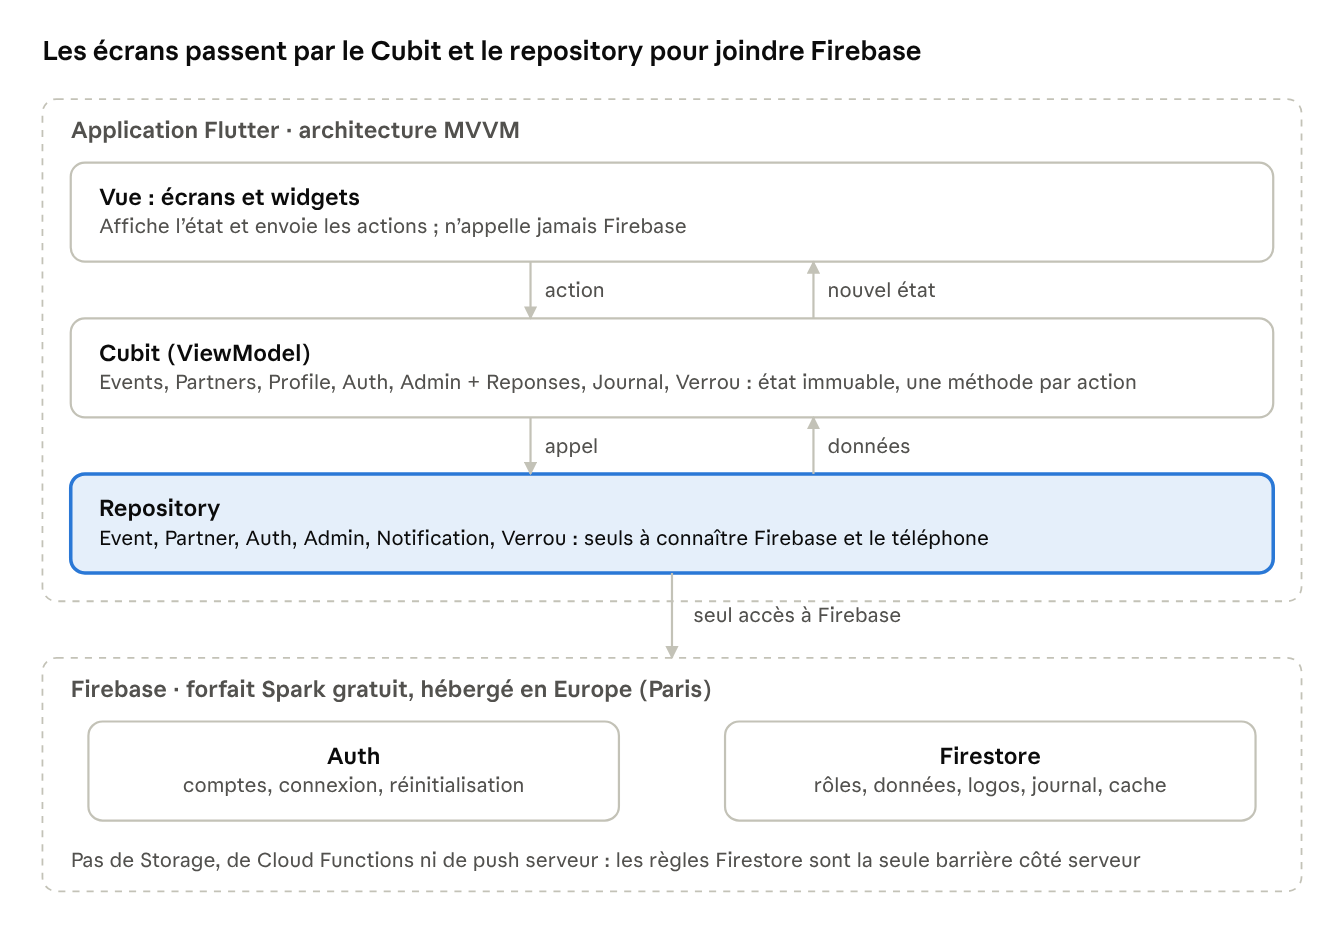
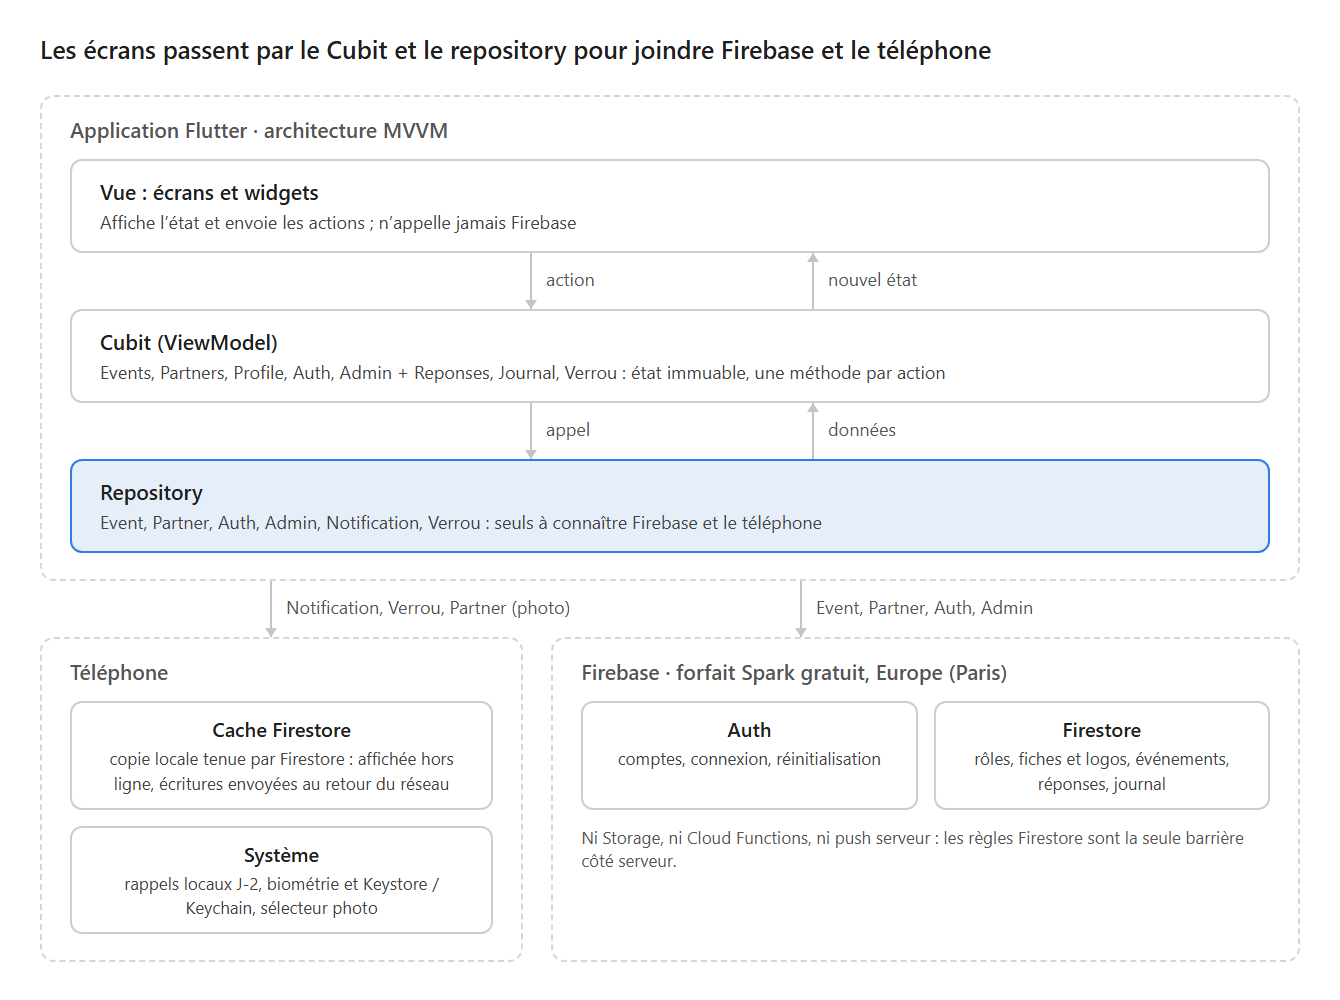
Schéma d'architecture : le téléphone comme seconde cible des repositories
Le cache Firestore vit sur le téléphone, pas dans Firebase ; notifications
locales, biométrie et sélecteur photo y figurent aussi. Source HTML ajoutée
pour pouvoir régénérer le PNG.

Changed region(s): [[0.0306, 0.1226, 0.9485, 0.9503], [0.0306, 0.0307, 0.7343, 0.0613]]

diff --git a/docs/architecture.html b/docs/architecture.html
@@ -1,0 +1,74 @@
+<!doctype html>
+<!-- Source de architecture.png. Régénérer :
+     msedge --headless --hide-scrollbars --window-size=1340,1000 --screenshot=architecture.png architecture.html -->
+<html lang="fr">
+<head>
+<meta charset="utf-8">
+<title>Architecture Parquet</title>
+<style>
+  * { box-sizing: border-box; margin: 0; }
+  body { width: 1340px; height: 1000px; padding: 32px 40px; background: #fff; color: #1f1f1f;
+         font-family: "Segoe UI", Inter, Arial, sans-serif; }
+  h1 { font-size: 25px; font-weight: 600; margin-bottom: 30px; }
+  .zone { border: 2px dashed #d6d6d6; border-radius: 14px; padding: 18px 28px 26px; }
+  .zone > .titre { font-size: 21px; font-weight: 600; color: #555; margin-bottom: 16px; }
+  .boite { border: 2px solid #cfcfca; border-radius: 12px; padding: 16px 28px; background: #fff; }
+  .boite b { display: block; font-size: 21px; font-weight: 600; margin-bottom: 4px; }
+  .boite span { font-size: 18px; color: #444; line-height: 1.45; }
+  .repo { border-color: #2f7de1; background: #e6eff9; }
+  .fleches { position: relative; height: 56px; }
+  .f { position: absolute; top: 0; height: 56px; border-left: 2px solid #c5c5c0; }
+  .f::after { content: ""; position: absolute; left: -7px; border: 6px solid transparent; }
+  .bas::after { bottom: 0; border-top: 9px solid #c5c5c0; border-bottom: 0; }
+  .haut::after { top: 0; border-bottom: 9px solid #c5c5c0; border-top: 0; }
+  .f em { position: absolute; left: 14px; top: 14px; font-style: normal; font-size: 18px; color: #555; white-space: nowrap; }
+  .bas-zones { display: grid; grid-template-columns: 1fr 1.55fr; gap: 28px; }
+  .grille { display: grid; gap: 16px; }
+  .centre { text-align: center; padding: 12px 16px; }
+  .centre b { font-size: 20px; }
+  .centre span { font-size: 17px; }
+  .note { font-size: 17px; color: #555; margin-top: 16px; line-height: 1.4; }
+</style>
+</head>
+<body>
+  <h1>Les écrans passent par le Cubit et le repository pour joindre Firebase et le téléphone</h1>
+
+  <div class="zone">
+    <div class="titre">Application Flutter · architecture MVVM</div>
+    <div class="boite"><b>Vue : écrans et widgets</b><span>Affiche l’état et envoie les actions ; n’appelle jamais Firebase</span></div>
+    <div class="fleches">
+      <div class="f bas" style="left:460px"><em>action</em></div>
+      <div class="f haut" style="left:742px"><em>nouvel état</em></div>
+    </div>
+    <div class="boite"><b>Cubit (ViewModel)</b><span>Events, Partners, Profile, Auth, Admin + Reponses, Journal, Verrou : état immuable, une méthode par action</span></div>
+    <div class="fleches">
+      <div class="f bas" style="left:460px"><em>appel</em></div>
+      <div class="f haut" style="left:742px"><em>données</em></div>
+    </div>
+    <div class="boite repo"><b>Repository</b><span>Event, Partner, Auth, Admin, Notification, Verrou : seuls à connaître Firebase et le téléphone</span></div>
+  </div>
+
+  <div class="fleches">
+    <div class="f bas" style="left:230px"><em>Notification, Verrou, Partner (photo)</em></div>
+    <div class="f bas" style="left:760px"><em>Event, Partner, Auth, Admin</em></div>
+  </div>
+
+  <div class="bas-zones">
+    <div class="zone">
+      <div class="titre">Téléphone</div>
+      <div class="grille">
+        <div class="boite centre"><b>Cache Firestore</b><span>copie locale tenue par Firestore : affichée hors ligne, écritures envoyées au retour du réseau</span></div>
+        <div class="boite centre"><b>Système</b><span>rappels locaux J-2, biométrie et Keystore / Keychain, sélecteur photo</span></div>
+      </div>
+    </div>
+    <div class="zone">
+      <div class="titre">Firebase · forfait Spark gratuit, Europe (Paris)</div>
+      <div class="grille" style="grid-template-columns: 1fr 1fr">
+        <div class="boite centre"><b>Auth</b><span>comptes, connexion, réinitialisation</span></div>
+        <div class="boite centre"><b>Firestore</b><span>rôles, fiches et logos, événements, réponses, journal</span></div>
+      </div>
+      <div class="note">Ni Storage, ni Cloud Functions, ni push serveur : les règles Firestore sont la seule barrière côté serveur.</div>
+    </div>
+  </div>
+</body>
+</html>

diff --git a/docs/README.md b/docs/README.md
@@ -3,7 +3,7 @@
 | Document | Contenu |
 |---|---|
 | [Cahier des charges](cahier-des-charges.md) | Besoins, fonctionnalités et priorités, architecture, sécurité, RGPD, questions du jury. Copie du document de référence (doc Claude) |
-| [Schéma d'architecture](architecture.png) | Vue → Cubit → Repository → Firebase (forfait Spark) |
+| [Schéma d'architecture](architecture.png) | Vue → Cubit → Repository → Firebase (forfait Spark) et téléphone ; source : [architecture.html](architecture.html) |
 | [Planche de la maquette](maquette/planche.png) | Lancement, annuaire public, invitation partenaire, suivi par le bureau |
 | [Prototype interactif](maquette/parquet-prototype.html) | Maquette cliquable, à ouvrir dans un navigateur après téléchargement |
 | [Charte d'interface](maquette/charte.md) | Couleurs, typographie, composants, mouvement, écrans à couvrir |
